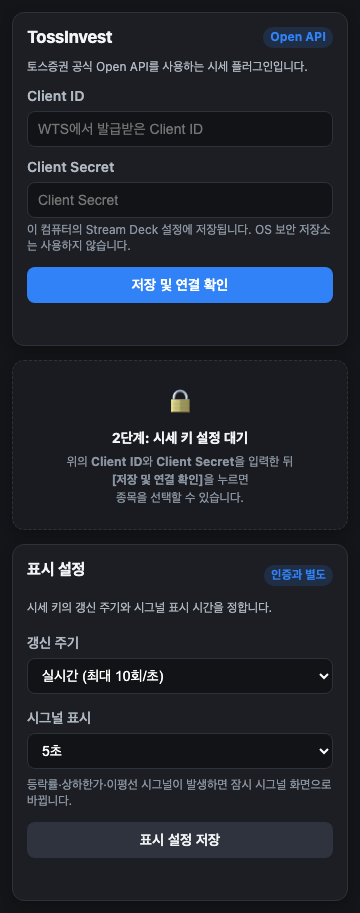
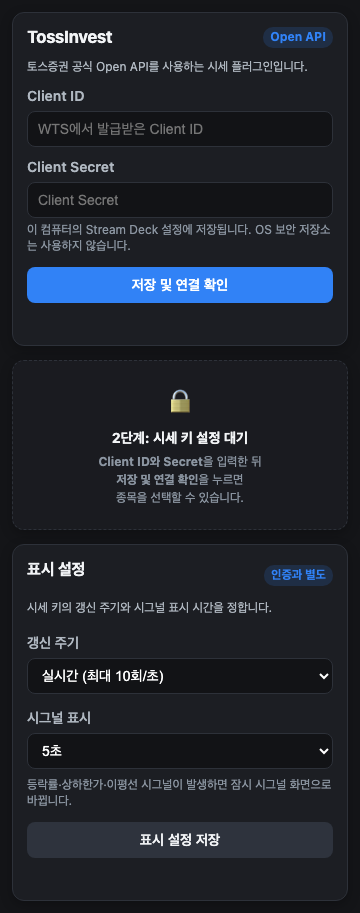
fix: prevent Linux setup guide wrapping

Changed region(s): [[0.1833, 0.4907, 0.825, 0.552]]

diff --git a/com.saybgm.tossinvest.sdPlugin/ui/quote.html b/com.saybgm.tossinvest.sdPlugin/ui/quote.html
@@ -69,9 +69,8 @@
         <div class="guide-icon">🔒</div>
         <div class="guide-title">2단계: 시세 키 설정 대기</div>
         <div class="guide-desc">
-          위의 <strong>Client ID</strong>와 <strong>Client Secret</strong>을 입력한
-          뒤<br />
-          <strong>[저장 및 연결 확인]</strong>을 누르면<br />
+          <strong>Client ID와 Secret</strong>을 입력한 뒤<br />
+          <strong>저장 및 연결 확인</strong>을 누르면<br />
           종목을 선택할 수 있습니다.
         </div>
       </div>
